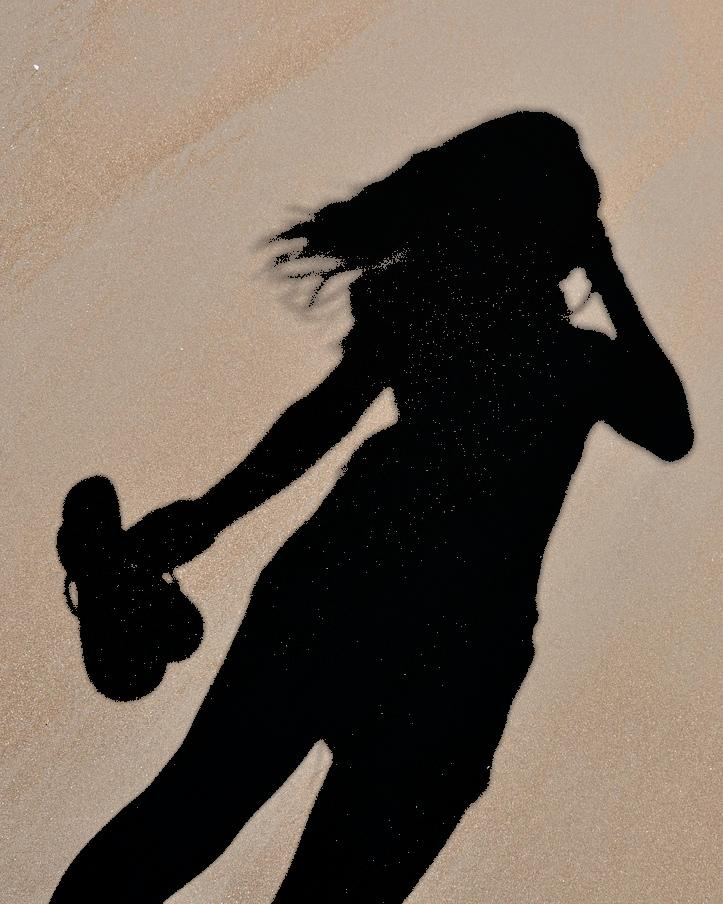
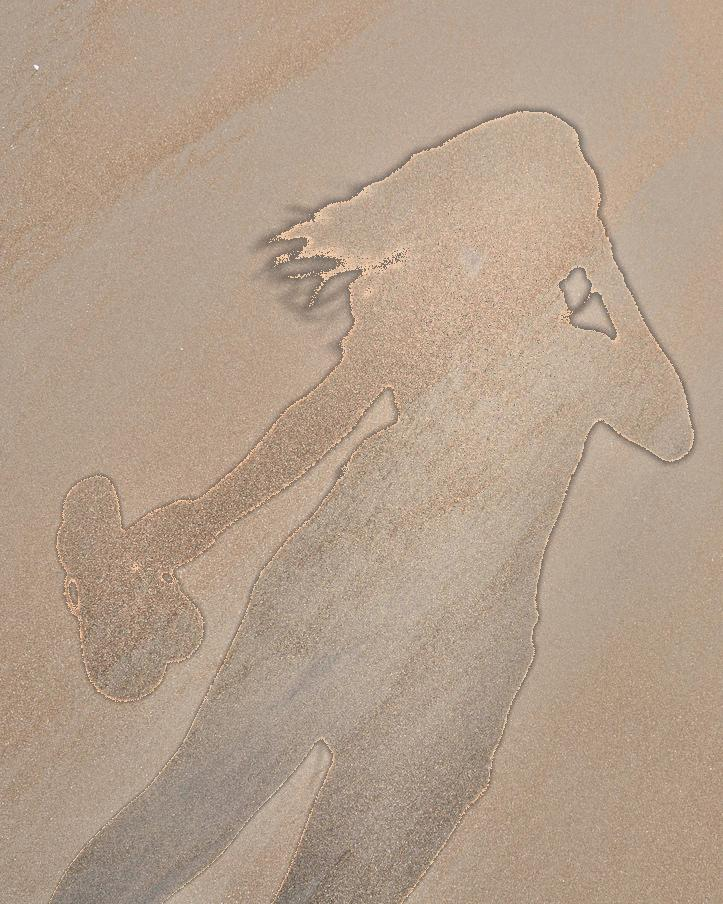
removal works

diff --git a/shadow_detection.m b/shadow_detection.m
@@ -19,9 +19,9 @@ if(mean_a + mean_b <= 256)
     for i= 1:m
         for j= 1:n
             if(lab_img(i,j,1) <= mean_l - std_l)
-                mean_Shadow_l = mean_nonShadow_l + lab_img(i,j,1);
-                mean_Shadow_a = mean_nonShadow_a + lab_img(i,j,2);
-                mean_Shadow_b = mean_nonShadow_b + lab_img(i,j,3);
+                mean_Shadow_l = mean_Shadow_l + lab_img(i,j,1);
+                mean_Shadow_a = mean_Shadow_a + lab_img(i,j,2);
+                mean_Shadow_b = mean_Shadow_b + lab_img(i,j,3);
                 num_Shadow = num_Shadow + 1;
             else
                 mean_nonShadow_l = mean_nonShadow_l + lab_img(i,j,1);
